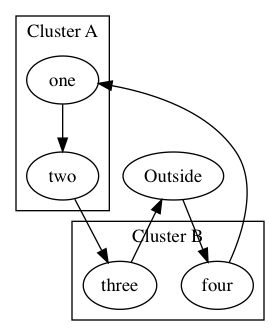
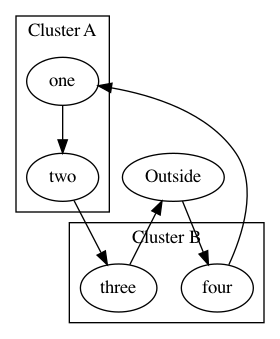
docs: update sample

diff --git a/sample/cluster_test.go b/sample/cluster_test.go
@@ -1,0 +1,122 @@
+package main
+
+import (
+	"errors"
+	"io/ioutil"
+	"os"
+	"strings"
+	"testing"
+
+	"github.com/wwmoraes/dot"
+	"github.com/wwmoraes/dot/attributes"
+	"github.com/wwmoraes/dot/formatters"
+)
+
+const dotFileName string = "cluster.dot"
+
+const expectedOutput string = `
+digraph {
+  subgraph "cluster_A" {
+    graph [label="Cluster A"];
+    "one";
+    "two";
+  }
+  subgraph "cluster_B" {
+    graph [label="Cluster B"];
+    "four";
+    "three";
+  }
+  "Outside";
+  "Outside"->"four";
+  "four"->"one";
+  "one"->"two";
+  "three"->"Outside";
+  "two"->"three";
+}
+`
+
+func flatten(s string, t *testing.T) string {
+	t.Helper()
+	return strings.Replace((strings.Replace(s, "\n", "", -1)), "  ", "", -1)
+}
+
+func TestSample_Cluster(t *testing.T) {
+	if err := os.Remove(dotFileName); err != nil {
+		if !errors.Is(err, os.ErrNotExist) {
+			t.Fatal(err)
+		}
+	}
+
+	main()
+
+	fileInfo, err := os.Stat(dotFileName)
+	if err != nil {
+		t.Fatal(err)
+	}
+
+	if !fileInfo.Mode().IsRegular() {
+		t.Fatalf("%s is not a regular file", dotFileName)
+	}
+
+	fileData, err := ioutil.ReadFile(dotFileName)
+	if err != nil {
+		t.Fatal(err)
+	}
+
+	if got, want := flatten(string(fileData), t), flatten(expectedOutput, t); got != want {
+		t.Errorf("got [\n%v\n] want [\n%v\n]", got, want)
+	}
+}
+
+func BenchmarkSample_Write(b *testing.B) {
+	b.Run("Direct", func(b *testing.B) {
+		graph := setupGraph(b)
+		b.ResetTimer()
+		for n := 0; n < b.N; n++ {
+			graph.Write(ioutil.Discard)
+		}
+	})
+	b.Run("IndentedWriter", func(b *testing.B) {
+		graph := setupGraph(b)
+		b.ResetTimer()
+		for n := 0; n < b.N; n++ {
+			graph.Write(ioutil.Discard)
+		}
+	})
+	b.Run("PrettyWriter", func(b *testing.B) {
+		graph := setupGraph(b)
+		b.ResetTimer()
+		for n := 0; n < b.N; n++ {
+			graph.Write(formatters.NewPrettyWriter(ioutil.Discard))
+		}
+	})
+}
+
+func setupGraph(b *testing.B) dot.Graph {
+	b.Helper()
+
+	rootGraph := dot.NewGraph(nil)
+	outsideGraph := rootGraph.Node("Outside")
+	clusterA := rootGraph.Subgraph(&dot.GraphOptions{
+		ID:      "A",
+		Cluster: true,
+	})
+	clusterA.SetAttributeString(attributes.KeyLabel, "Cluster A")
+	insideOne := clusterA.Node("one")
+	insideTwo := clusterA.Node("two")
+	clusterA.AddToSameRank(
+		"test",
+		clusterA.Node("one"),
+		clusterA.Node("two"),
+	)
+	clusterB := rootGraph.Subgraph(&dot.GraphOptions{
+		ID:      "B",
+		Cluster: true,
+	})
+	clusterB.SetAttributeString(attributes.KeyLabel, "Cluster B")
+	insideThree := clusterB.Node("three")
+	insideFour := clusterB.Node("four")
+	outsideGraph.Edge(insideFour).Edge(insideOne).Edge(insideTwo).Edge(insideThree).Edge(outsideGraph)
+
+	return rootGraph
+}

diff --git a/sample/cluster.go b/sample/cluster.go
@@ -6,6 +6,7 @@ import (
 
 	"github.com/wwmoraes/dot"
 	"github.com/wwmoraes/dot/attributes"
+	"github.com/wwmoraes/dot/formatters"
 )
 
 func main() {
@@ -44,11 +45,11 @@ func main() {
 	log.Println("creating edges...")
 	outsideGraph.Edge(insideFour).Edge(insideOne).Edge(insideTwo).Edge(insideThree).Edge(outsideGraph)
 
-	log.Println("trying to open sample.dot file for write...")
-	fd, err := os.Create("sample.dot")
+	log.Println("trying to open cluster.dot file for write...")
+	fd, err := os.Create("cluster.dot")
 	if err == nil {
-		log.Println("writing graph to sample.dot...")
-		rootGraph.Write(fd)
+		log.Println("writing graph to cluster.dot...")
+		rootGraph.Write(formatters.NewPrettyWriter(fd))
 		log.Println("done!")
 	}
 }
